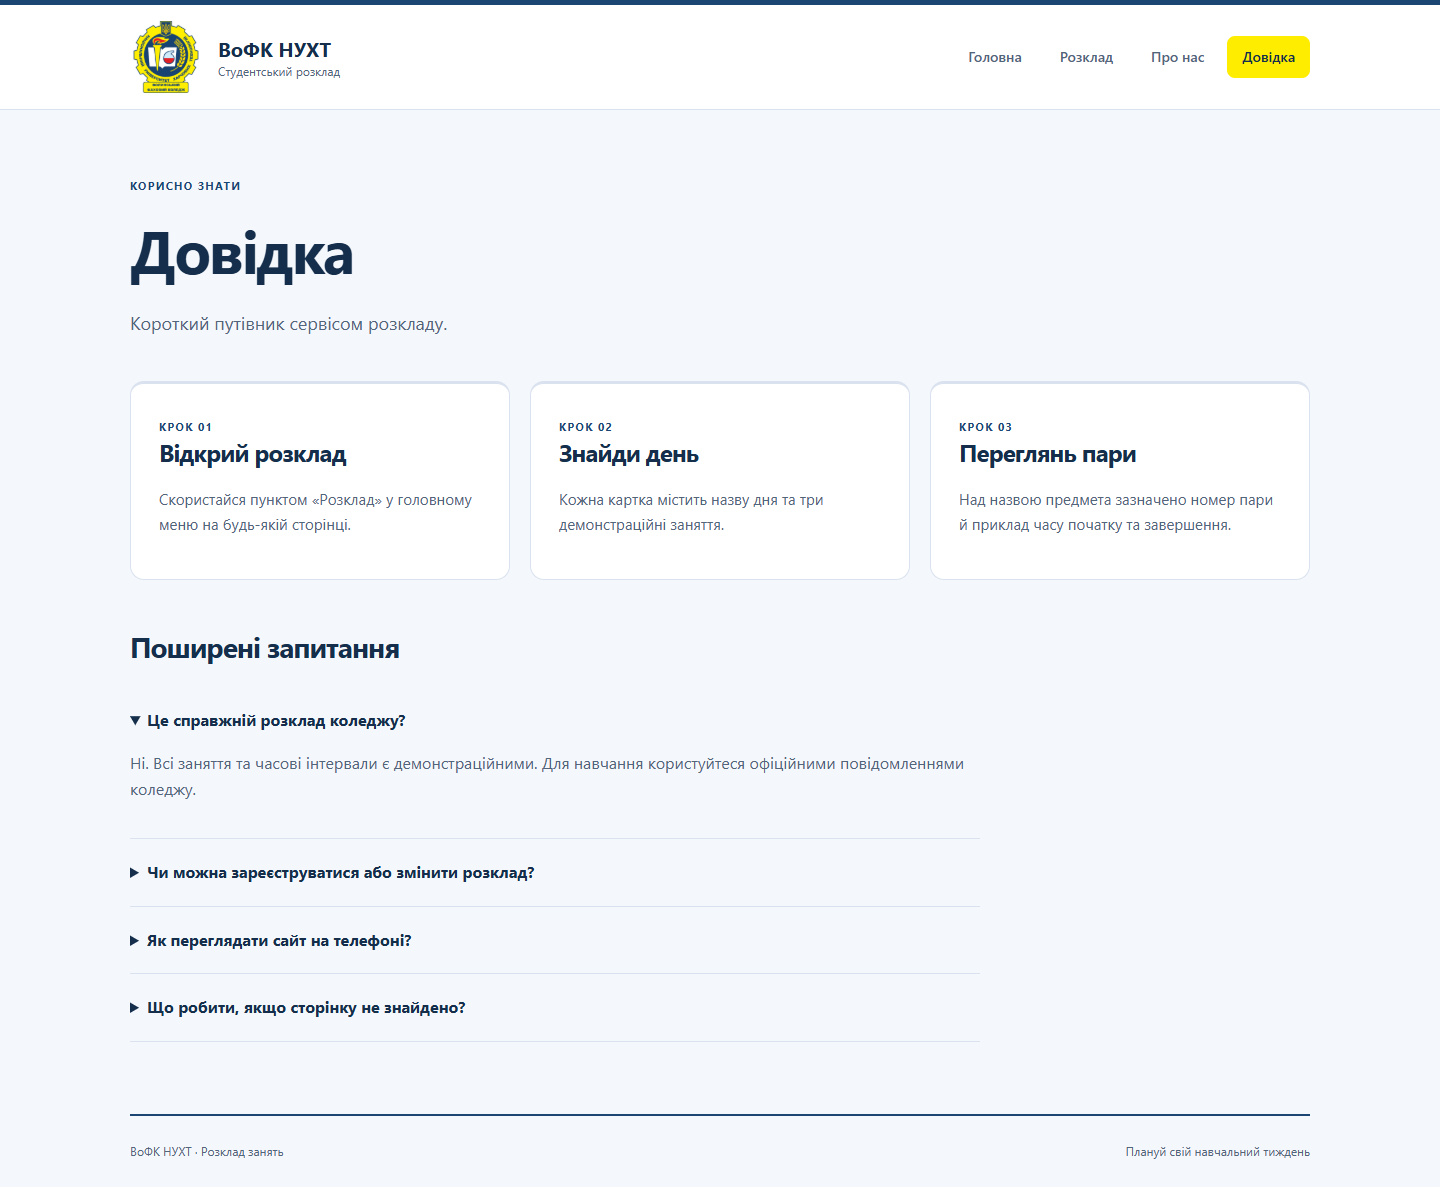
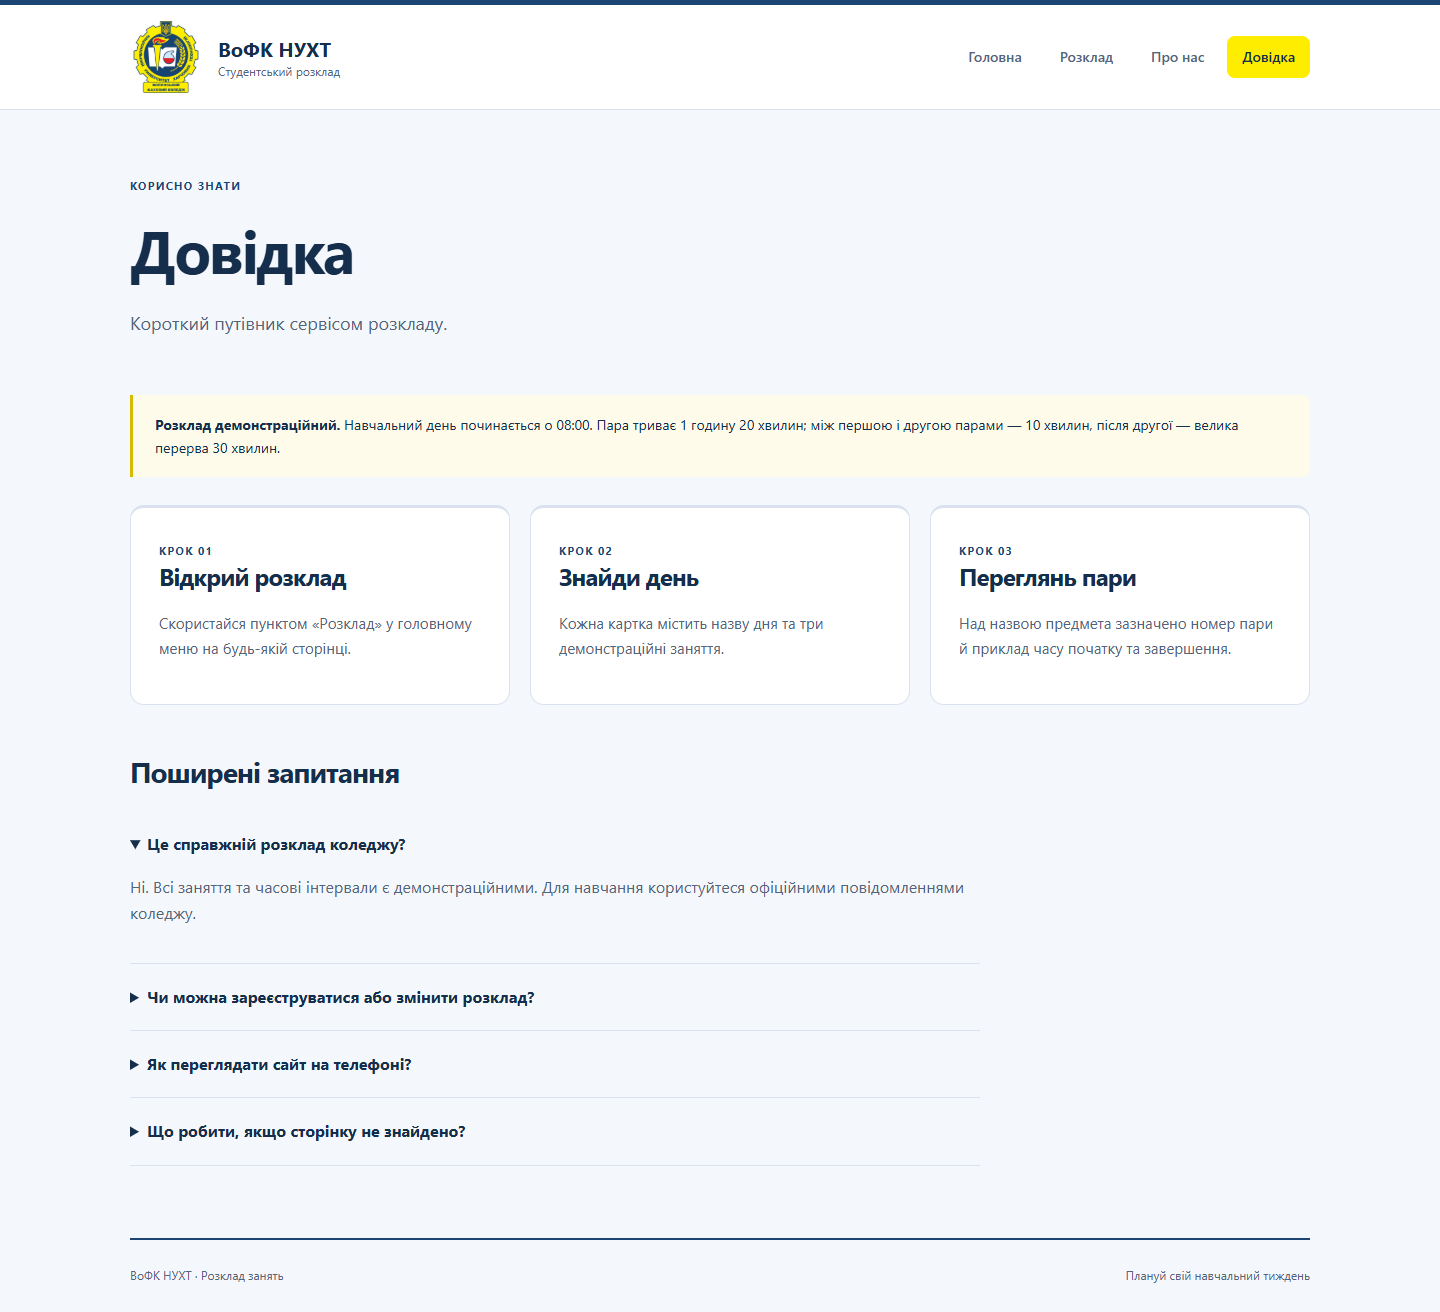
Set schedule times and breaks

diff --git a/templates/home.html b/templates/home.html
@@ -3,7 +3,7 @@
 {% block content %}
 <section class="hero">
 <div><p class="eyebrow">НАВЧАННЯ ПОЧИНАЄТЬСЯ З ПЛАНУ</p><h1>Твій тиждень.<br><span>Усе за розкладом.</span></h1><p class="lead">Зручний простір для розкладу занять ВоФК НУХТ. Знайомся з майбутнім сервісом і переглядай приклад навчального тижня.</p><div class="actions"><a class="button" href="{{ url_for('schedule') }}">Переглянути розклад ↗</a><a href="{{ url_for('about') }}">Про проєкт →</a></div><p class="muted">Попередня версія · Демонстраційні дані</p></div>
-<aside class="preview" aria-label="Приклад навчального дня"><div class="preview-heading"><span>ПОНЕДІЛОК</span><span class="badge">Приклад</span></div><h2>Вдалий початок тижня</h2><div class="lesson"><span>01</span><div><strong>Основи програмування</strong><small>08:30–09:50</small></div></div><div class="lesson"><span>02</span><div><strong>Математика</strong><small>10:00–11:20</small></div></div><div class="lesson"><span>03</span><div><strong>Українська мова</strong><small>11:40–13:00</small></div></div><p class="muted">Час для знань, ідей та нових можливостей.</p></aside>
+<aside class="preview" aria-label="Приклад навчального дня"><div class="preview-heading"><span>ПОНЕДІЛОК</span><span class="badge">Приклад</span></div><h2>Вдалий початок тижня</h2><div class="lesson"><span>01</span><div><strong>Основи програмування</strong><small>08:00–09:20</small></div></div><div class="break-note">Перерва · 10 хв</div><div class="lesson"><span>02</span><div><strong>Математика</strong><small>09:30–10:50</small></div></div><div class="break-note">Велика перерва · 30 хв</div><div class="lesson"><span>03</span><div><strong>Українська мова</strong><small>11:20–12:40</small></div></div><p class="muted">Час для знань, ідей та нових можливостей.</p></aside>
 </section>
 <section class="section"><p class="eyebrow">ОРІЄНТУЙСЯ ЛЕГКО</p><h2>Навчальний день під рукою</h2><div class="grid three">
 <article class="card"><span class="number">01 / РОЗКЛАД</span><h3>Тиждень цілком</h3><p>П’ять навчальних днів, предмети та час пар в одному місці.</p><a href="{{ url_for('schedule') }}">Відкрити приклад →</a></article>

diff --git a/templates/help.html b/templates/help.html
@@ -2,6 +2,7 @@
 {% block title %}Довідка{% endblock %}
 {% block content %}
 <section class="page-heading"><p class="eyebrow">КОРИСНО ЗНАТИ</p><h1>Довідка</h1><p class="lead">Короткий путівник сервісом розкладу.</p></section>
+<p class="notice"><strong>Розклад демонстраційний.</strong> Навчальний день починається о 08:00. Пара триває 1 годину 20 хвилин; між першою і другою парами — 10 хвилин, після другої — велика перерва 30 хвилин.</p>
 <section class="grid three"><article class="card"><span class="number">КРОК 01</span><h2>Відкрий розклад</h2><p>Скористайся пунктом «Розклад» у головному меню на будь-якій сторінці.</p></article><article class="card"><span class="number">КРОК 02</span><h2>Знайди день</h2><p>Кожна картка містить назву дня та три демонстраційні заняття.</p></article><article class="card"><span class="number">КРОК 03</span><h2>Переглянь пари</h2><p>Над назвою предмета зазначено номер пари й приклад часу початку та завершення.</p></article></section>
 <section class="section faq"><h2>Поширені запитання</h2>
 <details open><summary>Це справжній розклад коледжу?</summary><p>Ні. Всі заняття та часові інтервали є демонстраційними. Для навчання користуйтеся офіційними повідомленнями коледжу.</p></details>

diff --git a/templates/schedule.html b/templates/schedule.html
@@ -4,6 +4,6 @@
 <section class="page-heading"><p class="eyebrow">ПЛАН НА ТИЖДЕНЬ</p><h1>Розклад занять</h1><p class="lead">Приклад тижня для демонстраційної групи.</p></section>
 <p class="notice"><strong>Демонстраційні дані.</strong> Предмети й час наведено як приклад, це не офіційний розклад ВоФК НУХТ. Актуальні заняття уточнюйте у коледжі.</p>
 <section class="schedule-grid" aria-label="Навчальний тиждень">
-{% for day, subjects in days %}<article class="day-card"><div class="day-heading"><span class="number">0{{ loop.index }}</span><h2>{{ day }}</h2><span class="muted">3 пари</span></div><ol class="subjects">{% for subject in subjects %}<li><span class="pair">{{ loop.index }} пара · {{ times[loop.index0] }}</span><h3>{{ subject }}</h3><span class="muted">Приклад заняття</span></li>{% endfor %}</ol></article>{% endfor %}
+{% for day, subjects in days %}<article class="day-card"><div class="day-heading"><span class="number">0{{ loop.index }}</span><h2>{{ day }}</h2><span class="muted">3 пари</span></div><ol class="subjects">{% for subject in subjects %}<li><span class="pair">{{ loop.index }} пара · {{ times[loop.index0] }}</span><h3>{{ subject }}</h3><span class="muted">Приклад заняття</span></li>{% if not loop.last %}<li class="break-row" aria-label="Перерва між парами">{{ breaks[loop.index0] }}</li>{% endif %}{% endfor %}</ol></article>{% endfor %}
 </section><p class="bottom-note">Потрібна підказка? <a href="{{ url_for('help_page') }}">Переглянь довідку →</a></p>
 {% endblock %}

diff --git a/static/css/style.css b/static/css/style.css
@@ -187,6 +187,20 @@ h3 {
   padding: 15px;
   margin-top: 10px;
 }
+.break-note,
+.break-row {
+  color: var(--muted);
+  font-size: 12px;
+  font-weight: 650;
+  text-align: center;
+}
+.break-note {
+  padding: 6px 0 0;
+}
+.break-row {
+  padding: 10px 0;
+  border-bottom: 1px dashed var(--line);
+}
 .lesson > span {
   color: var(--accent);
   font-size: 13px;

diff --git a/tests/test_app.py b/tests/test_app.py
@@ -49,6 +49,20 @@ class SiteTests(unittest.TestCase):
         self.assertIn("Демонстраційні дані", html)
         self.assertEqual(html.count('class="day-card"'), 5)
         self.assertEqual(html.count('class="pair"'), 15)
+        for time in ("08:00–09:20", "09:30–10:50", "11:20–12:40"):
+            self.assertIn(time, html)
+        self.assertEqual(html.count("10 хв"), 5)
+        self.assertEqual(html.count("30 хв — велика перерва"), 5)
+
+    def test_home_and_help_show_schedule_times_and_breaks(self):
+        home = self.client.get("/").get_data(as_text=True)
+        help_page = self.client.get("/help").get_data(as_text=True)
+        self.assertIn("08:00–09:20", home)
+        self.assertIn("09:30–10:50", home)
+        self.assertIn("11:20–12:40", home)
+        self.assertIn("Велика перерва · 30 хв", home)
+        self.assertIn("починається о 08:00", help_page)
+        self.assertIn("після другої — велика перерва 30 хвилин", help_page)
 
     def test_styles_and_not_found(self):
         with self.client.get("/static/css/style.css") as stylesheet:

diff --git a/main.py b/main.py
@@ -27,8 +27,9 @@ def schedule():
         ("Четвер", ("Основи програмування", "Іноземна мова", "Інформатика")),
         ("П’ятниця", ("Українська мова", "Основи програмної інженерії", "Фізична культура")),
     )
-    return render_template("schedule.html", days=days,
-                           times=("08:30–09:50", "10:00–11:20", "11:40–13:00"))
+    times = ("08:00–09:20", "09:30–10:50", "11:20–12:40")
+    breaks = ("10 хв", "30 хв — велика перерва")
+    return render_template("schedule.html", days=days, times=times, breaks=breaks)
 
 
 @app.route("/about")

diff --git a/README.md b/README.md
@@ -23,6 +23,7 @@ py -3.12 -m venv .venv
 | Усі сторінки доступні через спільне меню | `templates/base.html`; адреси формує `url_for` |
 | Адаптивна верстка | `static/css/style.css`: CSS Grid і медіазапити 900 та 620 px |
 | Контент відповідає предметній області | Демонстраційний розклад, інформація про сервіс і довідка |
+| Правильний час занять | Початок 08:00, пари по 80 хв, перерви 10 хв і 30 хв після другої пари |
 | Чистий структурований код | Окремі маршрути, спільний шаблон, окремий CSS, коментарі та docstring |
 | Python-залежності | `requirements.txt`, `.venv/` і `.gitignore` |
 | Звіт і скриншоти сторінок | `lab-reports/lab03-report-yatskiv.md` та `lab-reports/screenshots/` |

diff --git a/lab-reports/lab03-report-yatskiv.md b/lab-reports/lab03-report-yatskiv.md
@@ -57,7 +57,7 @@
 
 ### 3.3. Розклад
 
-**Звичайний вигляд.** П’ять днів із трьома демонстраційними парами в кожному; дані позначені як приклад.
+**Звичайний вигляд.** П’ять днів із трьома демонстраційними парами в кожному. Перша пара починається о 08:00, триває 1 год 20 хв; перерви становлять 10 хв і 30 хв після другої пари.
 
 ![Розклад — звичайний вигляд](screenshots/schedule-desktop.png)
 
